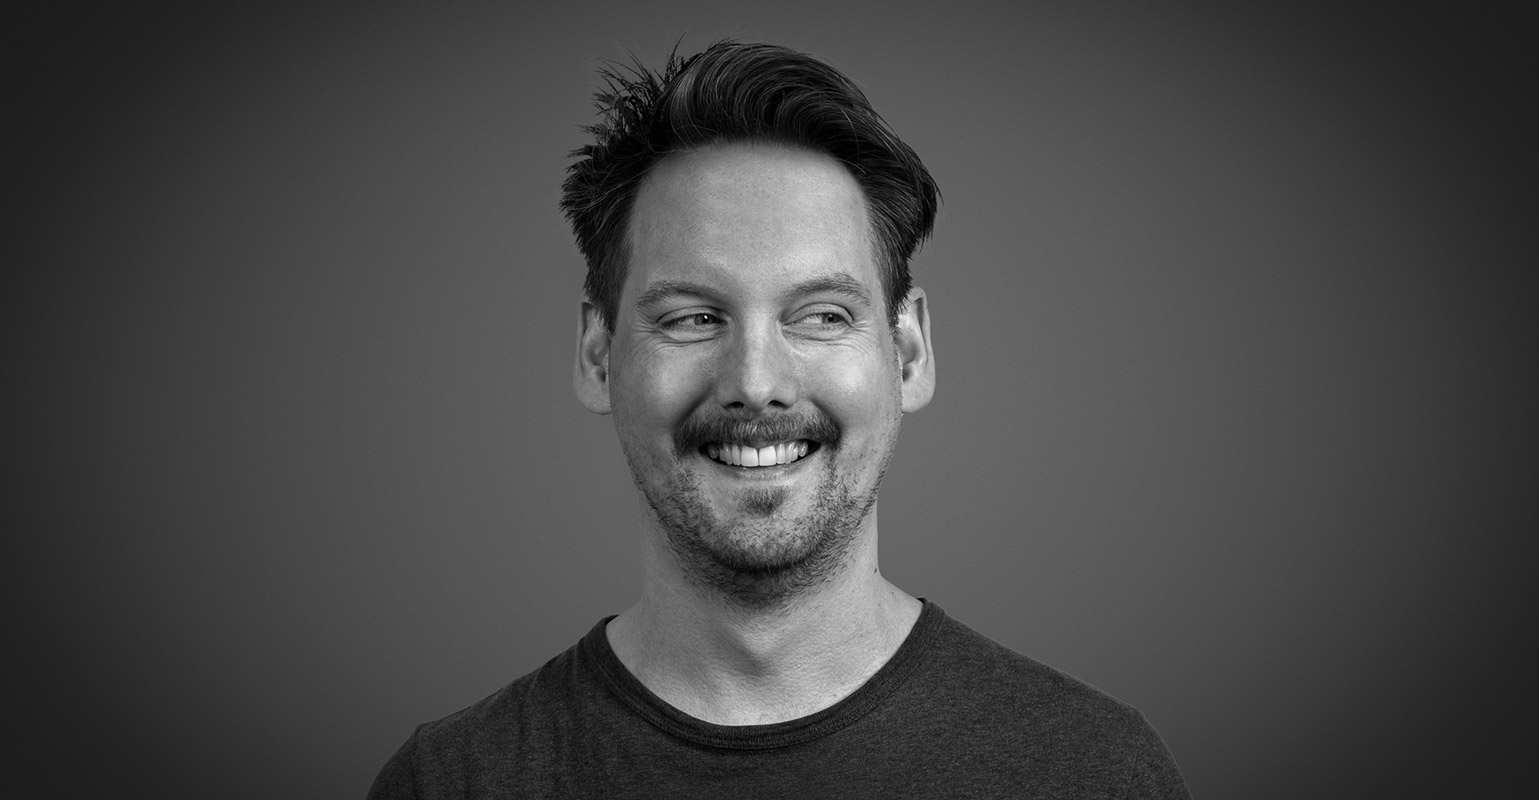
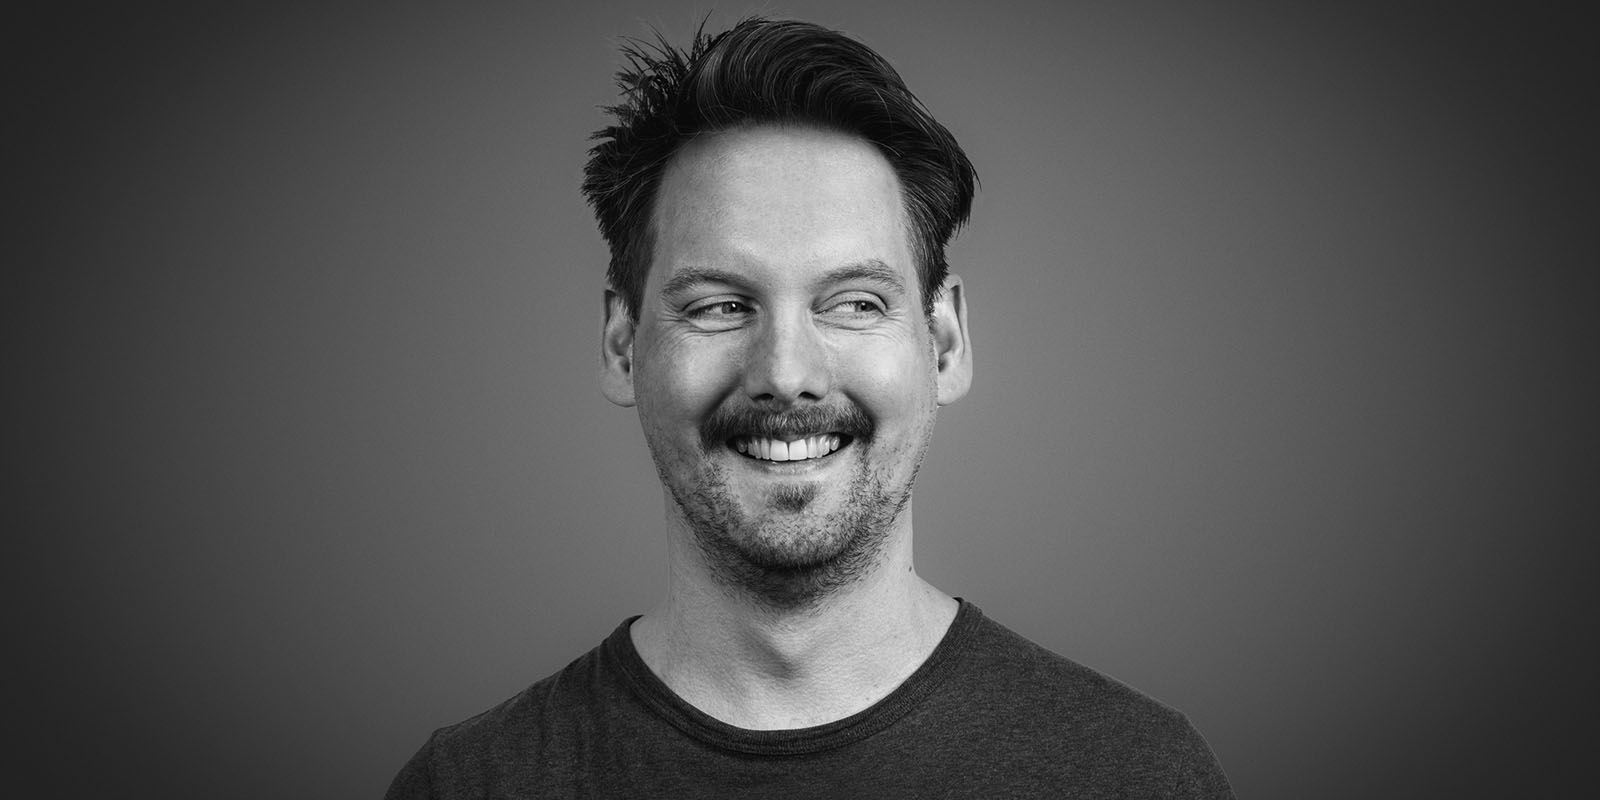
Update bio

diff --git a/content/.vuepress/pages/Home.vue b/content/.vuepress/pages/Home.vue
@@ -1,7 +1,7 @@
 <template>
   <div class="layout__home home">
     <img class="home__splash" :src="require('../assets/home-splash-small.svg')">
-    <h1>I'm Dave</h1>
+    <h1>I'm <router-link to="/bio/">Dave</router-link>,</h1>
     <Content id="content" class="pageContent"/>
   </div>
 </template>

diff --git a/content/.vuepress/styles/_variables.scss b/content/.vuepress/styles/_variables.scss
@@ -87,7 +87,7 @@ $quoteFont: Sanchez, Garamond, Times, serif;
 
 @mixin introText {
   font-size: 1.7rem;
-  line-height: 1.2em !important;
+  line-height: 1.4em !important;
   font-family: $titleFont !important;
   font-weight: 500;
 

diff --git a/content/bio/index.md b/content/bio/index.md
@@ -7,34 +7,33 @@ order: 2
 
 # Bio
 
-<img class="only-md-up" src="./images/dave-wide.jpg">
-<img class="only-sm" src="./images/dave-square.jpg">
+<img class="only-md-up" style="width: 100%; aspect-ratio:2/1; background: #333" src="./images/dave-wide.jpg">
+<img class="only-sm" style="width: 100%; aspect-ratio:1/1; background: #333" src="./images/dave-square.jpg">
 
-I'm one of those annoying people who just ***loves*** their job.
+I'm one of those annoying people who ***love*** their job.
 
-I'm constantly thinking of ways to build things, to connect things, how this could be better, or easier, or smoother, or cooler. Shower thoughts become notes, sketches, experiments, repos, releases, and... 
+I'm constantly thinking of ways to build things, to connect things, how it could be better, or easier, or smoother, or cooler. Shower thoughts become notes, sketches, experiments, repos, releases, then... 
 
 <Quote text="Woohoo!!" name="Me, cracking the latest big / small idea" size="2" hero />
 
-You see where I'm coming from.
+You see where I'm coming from?
 
 I've had an interesting journey through tech; my background is animation and I learnt to code in 3dsmax, After Effects and Flash – in what used to be a very creative TV and advertising agency landscape.
 
-After Flash died a death, and Web 2.0 matured, ActionScript became TypeScript, MaxScripts became NPM packages, and micro-sites became Vue applications.
+After Flash died a death, and Web 2.0 matured, ActionScript became JavaScript, MaxScripts became NPM packages, and micro-sites became Vue applications.
 
-There was a mix of front end, back end and other languages along the way, but right now JavaScript is my thing. I've worked freelance, in teams, in small, medium and enterprise-sized companies, on short, medium and multi-year projects.
+There's been a mix of front end, back end and languages along the way, but right now Node, TypeScript & Vue is my stack, with a preference for frontend, static sites, tooling and extensions. 
 
-I class myself as a senior / lead dev, but right now I'm focusing on the Indie Hacker dream; releasing my own software and hopefully growing it into a sustainable business.
+I've worked freelance, in teams, in small, medium and enterprise-sized companies, on short, medium and multi-year projects as what you might call a senior / lead dev.
+
+Right now I'm focusing on the Indie Hacker dream; releasing my own software and hopefully growing it into a sustainable business.
 
 [![control space](../products/control-space/images/cs-logo-inline.svg)](../products/control-space/)
 
 Moving from developer to consumer / business tools is an interesting one; I've still a lot to learn, and it's too early to make any predictions, but [Control Space](https://controlspace.app) has recently gone into public Beta  🥳. 
 
-The easiest way to get in contact is via
-[Twitter](http://twitter.com/dave_stewart).
-
-Or you can find me / my work / my comments / my likes on 
-[GitHub](http://github.com/davestewart/) / 
+You can find me / my work / my comments / my likes on
+[GitHub](http://github.com/davestewart/) /
 [Gists](http://gist.github.com/davestewart),
 [LinkedIn](http://linkedin.com/in/davestewartuk),
 [Reddit](http://reddit.com/user/dave__stewart),
@@ -47,6 +46,6 @@ Or you can find me / my work / my comments / my likes on
 [Mixcloud](http://mixcloud.com/davestewart/),
 [SoundCloud](https://soundcloud.com/davestewart/likes) and [Vimeo](http://vimeo.com/davestewartuk).
 
-TTFN,
+If you fancy a two-way conversation, catch me on
+[Twitter](http://twitter.com/dave_stewart).
 
-<SiteIcon fill="#ea4848" style="width: 37px; height: 37px;"/>

diff --git a/content/index.md b/content/index.md
@@ -21,15 +21,15 @@ media:
 
 ---
 
-A London-based web app developer, currently building [Control Space](/products/control-space).
+A London-based web developer currently building [Control Space](/products/control-space).
 
-I pride myself on tight mix of technical + creative with a passion for [products](/products/), [innovation](/projects/) and [experimentation](/archive/projects/).
+I pride myself on a tight mix of technical and creative with a passion for [product](/products/), [innovation](/projects/) and [experimentation](/archive/projects/).
 
 <MediaGallery media="gallery" scale keep-alive />
 
 My commercial work is primarily enterprise [web apps](/work/) after years of agency [sites](/archive/work/) and before that titles [animation](/archive/work/animation/).
 
-I've recently resumed [writing](/blog/) which I absolutely love; expect clear, researched and actionable thinking.
+I've recently resumed [writing](/blog/) so you can look forward to clear, researched and actionable thinking.
 
 ---
 
@@ -37,8 +37,6 @@ I've recently resumed [writing](/blog/) which I absolutely love; expect clear, r
 
 If you prefer, you can [search](/search/) the site or trawl the [sitemap](/sitemap/).
 
-Lastly, check my [bio](/bio/) and say **Hello** back!
-
-TTFN,
+Enjoy!
 
 <SiteIcon fill="#ea4848" style="width: 37px; height: 37px;"/>
